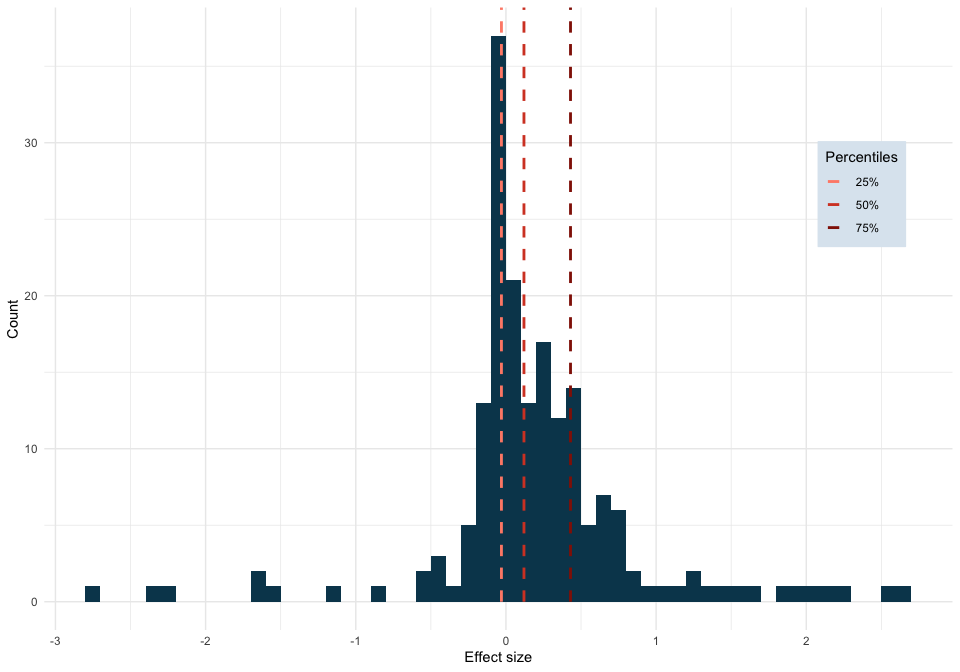
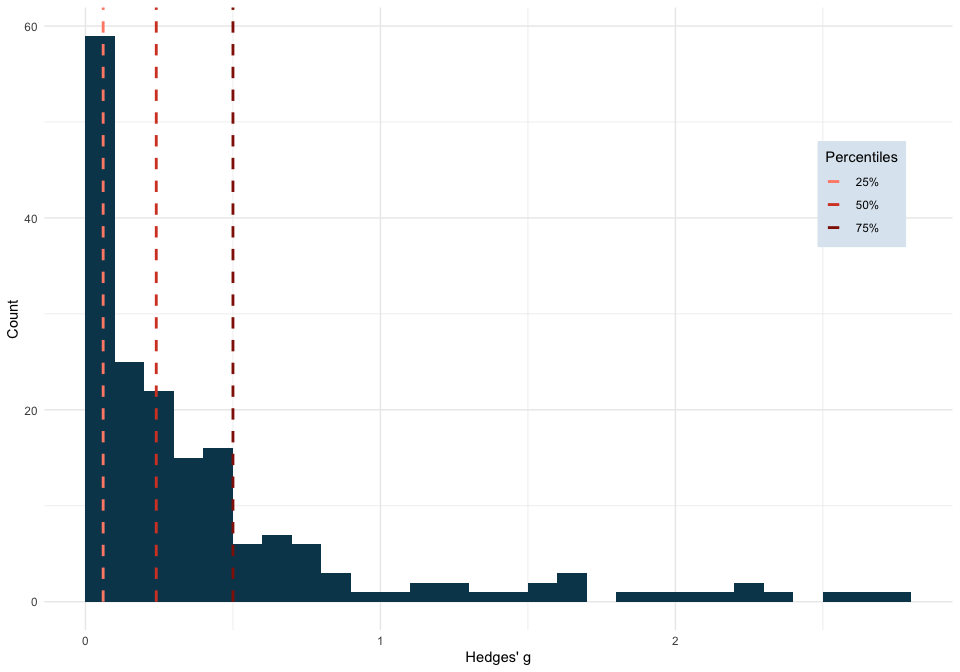
Updated README and vignette

diff --git a/README.md b/README.md
@@ -13,7 +13,7 @@ The `ESDist` package is designed to calculate and visualise
 field-specific effect size distributions, based on data that can easily
 be obtained from meta-analyses.
 
-[![DOI](https://zenodo.org/badge/532824630.svg)](https://zenodo.org/badge/latestdoi/532824630)
+[![DOI](https://zenodo.org/badge/532824630.svg)](https://doi.org/10.5281/zenodo.8093616)
 
 ### Installation
 
@@ -119,12 +119,15 @@ plot2
 It is also possible to plot effect size benchmarks based on the 25th,
 50th, and 75th percentiles by adding `method = "quads"` (or based on the
 16.65th, 50th, and 83.35th percentiles by adding `method = "thirds"`).
+Following convention, we plot these benchmarks based on the distribution
+of absolute effect sizes by setting the `abs` argument to TRUE.
 
 ``` r
 plot3 <- esd_plot(df = ot_dat,
                   es = yi,
                   es_type = "Hedges' g",
-                  method = "quads")
+                  method = "quads",
+                  abs = TRUE)
 
 plot3
 ```
@@ -133,27 +136,36 @@ plot3
 
 ### Plot empirical effect size ranges
 
-Finally, we can specify the range of effect sizes that is equal to or
-larger than a specified `sesoi`.
+We can specify the range of effect sizes that is equal to or larger than
+a specified `sesoi`.
 
 ``` r
-plot4 <- esd_plot_pba(df = ot_dat,
+plot4 <- esd_plot(df = ot_dat,
                   es = yi,
                   se = sei,
                   es_type = "Hedges' g",
-                  sesoi = 0.3)
-#> Warning: Using `size` aesthetic for lines was deprecated in ggplot2 3.4.0.
-#> ℹ Please use `linewidth` instead.
-#> ℹ The deprecated feature was likely used in the ESDist package.
-#>   Please report the issue to the authors.
-#> This warning is displayed once per session.
-#> Call `lifecycle::last_lifecycle_warnings()` to see where this warning was
-#> generated.
+                  sesoi = 0.3,
+                  abs = TRUE)
 
 plot4
 ```
 
-![](man/figures/README-unnamed-chunk-9-1.png)<!-- -->
+![](man/figures/README-unnamed-chunk-9-1.png)<!-- --> \### Plot ESD per
+group
+
+Finally, we can plot an ESD for each subgroup in our dataset by feeding
+our grouping variable to the `grouping_var` argument.
+
+``` r
+plot5 <- esd_plot(df = ot_dat,
+                  es = yi,
+                  es_type = "Hedges' g",
+                  grouping_var = group)
+
+plot5
+```
+
+![](man/figures/README-unnamed-chunk-10-1.png)<!-- -->
 
 ## esd_plot_pba()
 
@@ -175,7 +187,7 @@ plot6 <- esd_plot_pba(df = ot_dat,
 plot6
 ```
 
-![](man/figures/README-unnamed-chunk-10-1.png)<!-- -->
+![](man/figures/README-unnamed-chunk-11-1.png)<!-- -->
 
 ## esd_table()
 
@@ -184,7 +196,9 @@ plot6
 By using the `esd_table()` function, you can calculate the effect size
 benchmarks for your dataset by specifying the dataset (`df`), and the
 column containing all effect sizes (`es`). This will give you the effect
-size benchmarks based on the 25th, 50th, and 75th percentiles.
+size benchmarks based on the 25th, 50th, and 75th percentiles. Following
+convention, we plot these benchmarks based on the distribution of
+absolute effect sizes by setting the `abs` argument to TRUE.
 
 ``` r
 library(ESDist)
@@ -193,11 +207,12 @@ library(dplyr)
 
 ``` r
 table1 <- esd_table(df = ot_dat,
-                    es = yi)
+                    es = yi,
+                    abs = TRUE)
 
 table1
-#>     25%  50%  75%   n
-#> 1 -0.03 0.12 0.43 182
+#>    25%  50% 75%   n
+#> 1 0.06 0.24 0.5 182
 ```
 
 ### Calculate effect size benchmarks per group
@@ -210,19 +225,20 @@ specifying `min_group_size`.)
 ``` r
 table2 <- esd_table(df = ot_dat,
                     es = yi,
-                    grouping_var = group)
+                    grouping_var = group,
+                    abs = TRUE)
 
 table2
-#>          Group   25%   50%   75%   n
-#> 1           AN -0.06 -0.03  0.01   6
-#> 2      anxiety  0.00  0.17  0.27   4
-#> 3          ASD  0.01  0.27  0.53  32
-#> 4          BPD -2.29 -0.16 -0.02   5
-#> 5   depression  0.21  0.45  0.91   6
-#> 6 neurotypical -0.02  0.07  0.45  89
-#> 7         PTSD  0.20  0.32  0.38   6
-#> 8          SCZ -0.04  0.04  0.20  20
-#> 9          All -0.03  0.12  0.43 182
+#>          Group  25%  50%  75%   n
+#> 1           AN 0.02 0.05 0.06   6
+#> 2      anxiety 0.19 0.31 0.41   4
+#> 3          ASD 0.11 0.31 0.55  32
+#> 4          BPD 0.16 1.22 2.29   5
+#> 5   depression 0.21 0.45 0.91   6
+#> 6 neurotypical 0.05 0.25 0.66  89
+#> 7         PTSD 0.20 0.32 0.38   6
+#> 8          SCZ 0.05 0.13 0.24  20
+#> 9          All 0.06 0.24 0.50 182
 ```
 
 ### Calculate effect size benchmarks from a weighted distribution
@@ -236,11 +252,12 @@ inverse standard error, taking more information from precise estimates
 table3 <- esd_table(df = ot_dat,
                     es = yi,
                     se = sei,
-                    weighted = TRUE)
+                    weighted = TRUE,
+                    abs = TRUE)
 
 table3
-#>     25%  50% 75%   n
-#> 1 -0.05 0.03 0.3 182
+#>    25%  50%  75%   n
+#> 1 0.04 0.15 0.36 182
 ```
 
 ## esd_table_pba()
@@ -253,12 +270,13 @@ additional arguments as the standard `esd_table()` function.
 ``` r
 table4 <- esd_table_pba(df = ot_dat,
                         es = yi,
-                        se = sei)
+                        se = sei,
+                        abs = TRUE)
 
 table4
-#>   Estimate   25%  50%  75%   n
-#> 1 Original -0.03 0.12 0.43 182
-#> 2 Adjusted -0.09 0.04 0.31 182
+#>   Estimate  25%  50%  75%   n
+#> 1 Original 0.06 0.24 0.50 182
+#> 2 Adjusted 0.08 0.20 0.39 182
 ```
 
 ### Editing and saving tables
